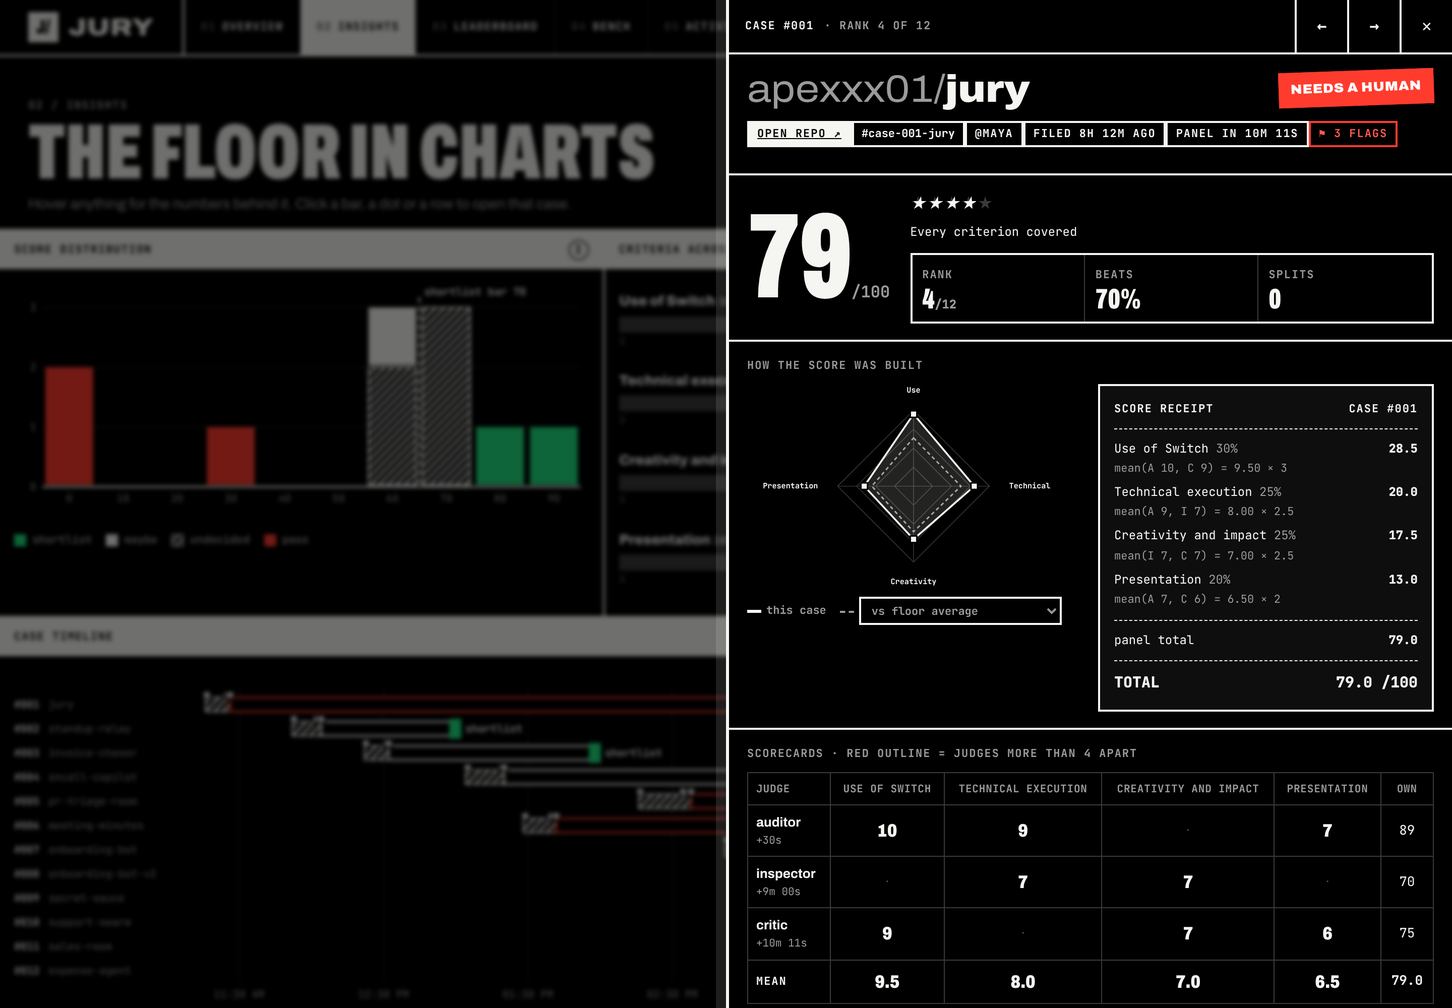
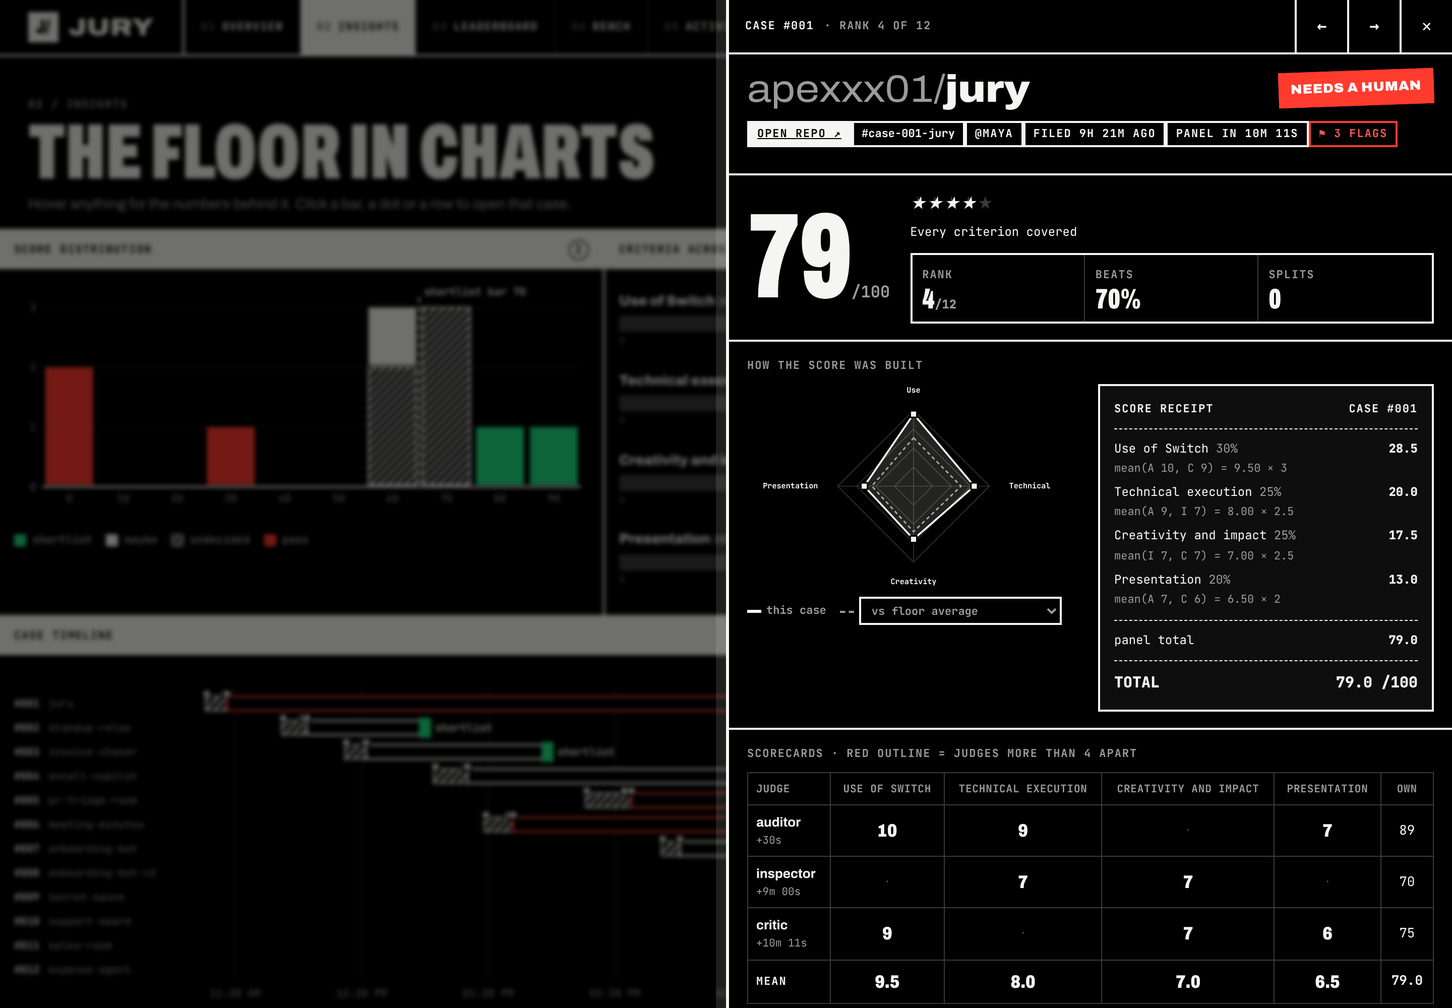
Console: replace the hackathon countdown with Next up and a 12-hour floor pulse

Changed region(s): [[0.1875, 0.713, 0.5, 0.868], [0.3125, 0.806, 0.4062, 0.837]]

diff --git a/jury/static/index.html b/jury/static/index.html
@@ -82,11 +82,22 @@ h1 .o{-webkit-text-stroke:2px var(--fg);color:transparent}
 .lede{max-width:66ch;font-size:clamp(15px,1.35vw,18px);font-weight:500;margin:18px 0 0;background:var(--bg);display:inline-block;padding:2px 0}
 .lede b{font-weight:800}
 .hero .side{border-left:2px solid var(--fg);display:grid;grid-template-rows:auto 1fr auto}
-.count{padding:var(--pad);border-bottom:2px solid var(--fg)}
-.count .n{font-family:var(--mono);font-weight:800;font-size:40px;letter-spacing:-.03em;line-height:1;margin-top:8px}
-.count .n i{font-style:normal;color:var(--faint)}
-.bar{height:10px;border:2px solid var(--fg);margin-top:12px;position:relative}
-.bar i{position:absolute;inset:0 auto 0 0;background:var(--fg)}
+.next{padding:var(--pad);border-bottom:2px solid var(--fg);display:grid;gap:10px}
+.next .hd{display:flex;justify-content:space-between;align-items:center;gap:8px}
+.next .pri{font-family:var(--mono);font-size:10.5px;font-weight:800;letter-spacing:.08em;text-transform:uppercase;padding:2px 7px;background:var(--fg);color:var(--bg)}
+.next .pri.r{background:var(--red);color:#fff}
+.next .pri.g{background:var(--green);color:#000}
+.next .verb{font-weight:900;font-stretch:62%;font-size:46px;line-height:.88;text-transform:uppercase;text-wrap:balance}
+.next .what{font-weight:800;font-stretch:110%;font-size:17px;line-height:1.15;word-break:break-word}
+.next .what .own{font-weight:500;color:var(--mut)}
+.next .why{font-family:var(--mono);font-size:11.5px;color:var(--mut)}
+.next .go2{justify-self:start;border:2px solid var(--fg);background:var(--fg);color:var(--bg);padding:8px 12px;font-family:var(--mono);font-weight:800;font-size:12px;text-transform:uppercase;letter-spacing:.05em;cursor:pointer;box-shadow:3px 3px 0 var(--red);transition:transform .08s,box-shadow .08s}
+.next .go2:hover{transform:translate(-1px,-1px);box-shadow:5px 5px 0 var(--red)}
+.next .go2:active{transform:translate(3px,3px);box-shadow:0 0 0 var(--red)}
+.pulse2{border-top:1px solid var(--line2);padding-top:10px;margin-top:4px}
+.pulse2 .hd{margin-bottom:6px}
+.pulse2 svg{display:block;width:100%;height:46px}
+.pulse2 .ax2{display:flex;justify-content:space-between;font-family:var(--mono);font-size:10px;color:var(--faint);margin-top:3px}
 .benchbox{padding:14px var(--pad);display:grid;gap:7px;align-content:start}
 .agent{display:grid;grid-template-columns:12px 1fr auto;gap:10px;align-items:center;font-family:var(--mono);font-size:12.5px;font-weight:700}
 .agent .d{width:10px;height:10px;background:var(--green)}
@@ -487,7 +498,7 @@ footer{display:flex;justify-content:space-between;flex-wrap:wrap;gap:10px;paddin
       <p class="lede" id="lede"><b>Jury is a judging floor that lives in your team chat.</b> Every submission gets its own room on Switch. Three AI judges gather evidence and argue it out. A human gives every verdict.</p>
     </div>
     <div class="side">
-      <div class="count"><span class="lbl mut" id="cdlabel">Submissions close in</span><div class="n" id="countdown">--:--:--</div><div class="bar" data-tip="How much of the hackathon window has passed"><i id="windowbar"></i></div><div class="lbl mut" style="margin-top:8px" id="windowtxt"></div></div>
+      <div class="next" id="next"></div>
       <div class="benchbox" id="benchbox"></div>
       <button class="tourbtn" id="tourBtn"><span><span class="lbl" style="opacity:.7">New here?</span><br><b>Take the 40-second tour</b></span><span class="big" style="font-size:40px">→</span></button>
     </div>
@@ -650,6 +661,7 @@ function renderHero(s){
     s.rubric.event_url ? `<a class="chip" href="${esc(s.rubric.event_url)}" target="_blank" rel="noopener">${esc(s.rubric.name)} ↗</a>` : `<span class="chip">${esc(s.rubric.name)}</span>`,
     set.intake_closed ? `<span class="chip r" data-tip="Intake is closed: new links are refused. '@jury-clerk open intake' reopens it.">■ Intake closed</span>` : `<span class="chip g" data-tip="Intake is open: any GitHub link pasted in #${esc(s.rooms.intake)} becomes a case.">● Intake open</span>`,
     `<span class="chip" data-tip="The two Switch rooms everyone sees. Each case also gets its own room.">#${esc(s.rooms.intake)} · #${esc(s.rooms.floor)}</span>`,
+    (() => { const en = Date.parse(set.window_end||"")/1000; return set.enforce_deadline && en > nowS() ? `<span class="chip" data-tip="JURY_ENFORCE_DEADLINE is on: anything filed after this is flagged late.">Deadline in ${dur(en - nowS())}</span>` : ""; })(),
   ].join("");
   if (!cs.length) $("headline").innerHTML = `The floor<br>is <span class="o">empty</span>.`;
   else {
@@ -668,19 +680,41 @@ function renderHero(s){
   for (const h of (b.humans||[])) rows.push(`<div class="agent"><span class="d h"></span><span>@${esc(h)}</span><span>human judge</span></div>`);
   $("benchbox").innerHTML = `<span class="lbl mut">On the bench</span>` + rows.join("");
 }
+function nextUp(s){
+  const cs = s.cases, rem = (s.settings?.remind_minutes || 30) * 60, L = (c) => `#${String(c.number).padStart(3,"0")}`;
+  const waitOf = (c) => nowS() - (readyAt(c) || c.created_at);
+  const human = cs.filter(c => stage(c) === "human").sort((a, b) => waitOf(b) - waitOf(a));
+  const copy = cs.find(c => isCopy(c) && !c.verdict);
+  if (copy) return {pri:"Urgent", cls:"r", verb:"Compare a possible copy", c:copy, why:`shares history or code with ${L({number:copyOf(copy)||0})} · a human should look`};
+  const appeal = cs.find(c => (c.appeals||0) && !c.verdict);
+  if (appeal) return {pri:"Appeal", cls:"r", verb:"Re-decide an appeal", c:appeal, why:`appealed by ${(appeal.appeal_log||[]).slice(-1)[0]?.by || "the team"} · old verdict set aside`};
+  if (human.length && waitOf(human[0]) > rem) return {pri:"Overdue", cls:"r", verb:"Give a verdict", c:human[0], why:`panel done ${dur(waitOf(human[0]))} ago${human[0].assignee?` · @${human[0].assignee}`:""}${human.length>1?` · ${human.length-1} more waiting`:""}`};
+  const split = cs.find(c => (c.disagreements||[]).length && !c.verdict);
+  if (split) { const d = split.disagreements[0], k = s.rubric.criteria.find(x => x.id === d.criterion); return {pri:"Split", cls:"r", verb:"Settle a split", c:split, why:`${short(d.a)} ${d.sa} vs ${short(d.b)} ${d.sb} on ${k ? k.label : d.criterion}`}; }
+  if (human.length) return {pri:"Ready", cls:"", verb:"Give a verdict", c:human[0], why:`panel done ${dur(waitOf(human[0]))} ago${human[0].assignee?` · @${human[0].assignee}`:""}`};
+  const open = cs.filter(c => ["filed","panel"].includes(stage(c))).sort((a, b) => a.created_at - b.created_at);
+  if (open.length) { const c = open[0], owes = (c.judges||[]).filter(j => !(c.scorecards||{})[j]); return {pri:"Bench working", cls:"", verb:"Nothing for you yet", c, why:`${L(c)} waiting on ${owes.map(short).join(", ") || "the bench"} · filed ${ago(c.created_at)}`}; }
+  return {pri:"All clear", cls:"g", verb:cs.length ? "Floor's clear" : "Ready for cases", c:null, why:`paste a GitHub link in #${s.rooms.intake} to open a case`};
+}
+function pulse(s){
+  const H = 12, now = nowS(), start = now - H*3600, bins = Array(H).fill(0);
+  for (const e of events(s)) if (e.t >= start) bins[Math.min(H-1, Math.floor((e.t - start)/3600))]++;
+  const mx = Math.max(1, ...bins), W = 240, Ht = 46, bw = W/H;
+  const bars = bins.map((n, i) => `<rect x="${i*bw+1}" y="${Ht - (n/mx)*(Ht-4)}" width="${bw-2}" height="${Math.max(n?2:0, (n/mx)*(Ht-4))}" fill="${i===H-1?"var(--red)":"var(--fg)"}" ${T(`<b>${n} event${n===1?"":"s"}</b><br>${hhmm(start+i*3600)}–${hhmm(start+(i+1)*3600)}`)}/>`).join("");
+  return `<svg viewBox="0 0 ${W} ${Ht}" preserveAspectRatio="none" role="img" aria-label="Events per hour, last 12 hours"><line x1="0" x2="${W}" y1="${Ht-.5}" y2="${Ht-.5}" stroke="var(--line2)"/>${bars}</svg>`;
+}
+function renderNext(s){
+  const n = nextUp(s), all = events(s), last = all[0]?.t, total = all.filter(e => e.t >= nowS() - 43200).length;
+  $("next").innerHTML = `<div class="hd"><span class="lbl mut">Next up</span><span class="pri ${n.cls}">${esc(n.pri)}</span></div>
+    <div class="verb">${esc(n.verb)}</div>
+    ${n.c ? `<div class="what">${esc(`#${String(n.c.number).padStart(3,"0")}`)} ${nm(n.c)}</div>` : ""}
+    <div class="why">${esc(n.why)}</div>
+    ${n.c ? `<button class="go2" data-open="${n.c.number}">Open case →</button>` : ""}
+    <div class="pulse2"><div class="hd"><span class="lbl mut">Floor pulse · 12h</span><span class="lbl mut">${total} events · last <span id="lastact" data-t="${last||""}">${last ? dur(nowS()-last) : "–"}</span></span></div>${pulse(s)}<div class="ax2"><span>12h ago</span><span>6h</span><span>now</span></div></div>`;
+}
 function tickClock(){
-  const s = UI.data; if (!s || !s.settings) return;
-  const st = Date.parse(s.settings.window_start)/1000, en = Date.parse(s.settings.window_end)/1000, n = nowS();
-  let label, left;
-  if (n < st) { label = "Submissions open in"; left = st - n; }
-  else if (n < en) { label = "Submissions close in"; left = en - n; }
-  else { label = "Submissions closed"; left = 0; }
-  $("cdlabel").textContent = label;
-  const d = Math.floor(left/86400), h = Math.floor(left%86400/3600), m = Math.floor(left%3600/60), sec = Math.floor(left%60);
-  $("countdown").innerHTML = left <= 0 ? "00:00:00" : `${d?`${d}<i>d</i> `:""}${String(h).padStart(2,"0")}<i>:</i>${String(m).padStart(2,"0")}<i>:</i>${String(sec).padStart(2,"0")}`;
-  const pct = Math.max(0, Math.min(1, (n - st) / (en - st)));
-  $("windowbar").style.width = (pct*100).toFixed(2) + "%";
-  $("windowtxt").textContent = `${Math.round(pct*100)}% of the window gone · ends ${new Date(en*1000).toLocaleString([], {weekday:"short", hour:"2-digit", minute:"2-digit"})}`;
+  const s = UI.data; if (!s) return;
+  const la = $("lastact"); if (la && la.dataset.t) la.textContent = dur(nowS() - +la.dataset.t);
   const stale = UI.lastOk && Date.now() - UI.lastOk > 15000;
   $("live").classList.toggle("stale", !!stale);
   $("livetxt").textContent = s.demo ? "Demo" : (stale ? "Offline" : "Live");
@@ -939,6 +973,7 @@ function events(s){
     for (const [j, card] of Object.entries(c.scorecards||{})) if (card.at) ev.push({t:card.at, k:"score", ic:ini(j), cls:"", n:c.number, tx:`<b>${esc(short(j))}</b> scored ${L}: ${Object.entries(card.scores||{}).map(([k,v]) => `${esc(lab(k))} ${v}`).join(", ")}`, sub:esc(md(card.summary||"").slice(0,140))});
     for (const d of (c.disagreements||[])) { const t = Math.max(c.scorecards[d.a]?.at||0, c.scorecards[d.b]?.at||0); ev.push({t, k:"flag", ic:"⚔", cls:"r", n:c.number, tx:`Split on ${L} ${esc(lab(d.criterion))}: ${esc(short(d.a))} ${d.sa} vs ${esc(short(d.b))} ${d.sb}`, sub:"Clerk asked them to compare evidence in the room"}); }
     if (readyAt(c)) ev.push({t:readyAt(c), k:"verdict", ic:"✓", cls:"o", n:c.number, tx:`${L} panel complete at <b>${c.provisional!=null?c.provisional.toFixed(1):"–"}</b>`, sub:`Clerk pinged ${c.assignee?"@"+esc(c.assignee):"the human judges"} for a verdict`});
+    for (const r of (c.reopen_log||[])) ev.push({t:r.at, k:"verdict", ic:"↩", cls:"o", n:c.number, tx:`${L} reopened by <b>${esc(r.by)}</b>${r.previous?`: ${esc(r.previous.toUpperCase())} set aside`:""}`, sub:"The old verdict stays on record"});
     for (const a of (c.appeal_log||[])) ev.push({t:a.at, k:"verdict", ic:"↺", cls:"r", n:c.number, tx:`Appeal on ${L} by <b>${esc(a.by)}</b>${a.previous?`: ${esc(a.previous.toUpperCase())} set aside`:""}`, sub:esc(a.text)});
     if (c.verdict?.at) { const o = outcome(c, s.rubric.verdicts); ev.push({t:c.verdict.at, k:"verdict", ic:"⚖", cls:o==="top"?"g":(o==="out"?"r":""), n:c.number, tx:`<b>${esc(c.verdict.decision.toUpperCase())}</b> for ${L} ${esc(c.repo)}${c.final!=null?`, ${Math.round(c.final)}/100`:""}`, sub:`by ${esc(c.verdict.judge||"")}${c.verdict.note?` · “${esc(c.verdict.note)}”`:""}`}); }
     if ((c.red_flags||[]).length && (c.scorecards||{})[s.bench?.auditor||"jury-auditor"]) ev.push({t:(c.scorecards[s.bench?.auditor||"jury-auditor"].at||c.created_at)+0.5, k:"flag", ic:"!", cls:"r", n:c.number, tx:`${(c.red_flags||[]).length} red flag${c.red_flags.length===1?"":"s"} on ${L}`, sub:esc(md(c.red_flags[0]).slice(0,140))});
@@ -957,7 +992,7 @@ function renderCmds(s){
   const c = "@" + (s.bench?.clerk || "jury-clerk"), first = s.cases.find(x => stage(x)==="human") || s.cases[0], N = first ? first.number : 1, V = s.rubric.verdicts, who = (s.bench?.humans||[])[0] || "maya";
   const G = [
     [`In #${s.rooms.intake}`, [["https://github.com/owner/repo", "Paste any GitHub link. Clerk opens a case room for it."], ["appeal the Critic missed the video", "Reply to Clerk's feedback in the thread to appeal a verdict."]]],
-    ["In a case room", [[`${c} verdict ${V[0]} 88 strong use of rooms`, `Give the verdict, optionally a score and a note. Choices: ${V.join(", ")}.`], [`${c} explain`, "How this case's score was computed, judge by judge."], [`${c} summon`, "Re-ping judges who haven't filed a scorecard."], [`${c} rescan`, "Re-read the room for scorecards Clerk might have missed."], [`${c} reaudit`, "Run the Auditor again after the team pushes a fix."], [`${c} feedback`, "Preview what the participant will be sent."], ["@jury-auditor evidence", "The Auditor's full fact sheet."]]],
+    ["In a case room", [[`${c} verdict ${V[0]} 88 strong use of rooms`, `Give the verdict, optionally a score and a note. Choices: ${V.join(", ")}.`], [`${c} explain`, "How this case's score was computed, judge by judge."], [`${c} summon`, "Re-ping judges who haven't filed a scorecard."], [`${c} rescan`, "Re-read the room for scorecards Clerk might have missed."], [`${c} reaudit`, "Run the Auditor again after the team pushes a fix."], [`${c} feedback`, "Preview what the participant will be sent."], [`${c} reopen`, "Set this case's verdict aside (it stays on record) so a human can decide again."], ["@jury-auditor evidence", "The Auditor's full fact sheet."]]],
     [`On #${s.rooms.floor}`, [[`${c} leaderboard`, "The ranking, in chat."], [`${c} stats`, "First-pass times, flags, overrides, appeals."], [`${c} my queue`, "Cases assigned to you and their state."], [`${c} assign ${N} to @${who}`, "Hand a case to a specific human judge."], [`${c} calibration`, "How generous or harsh each AI judge is vs the humans."], [`${c} case ${N}`, "One case's scorecards at a glance."], [`${c} close intake`, "Stop taking new links (open intake reverses it)."], [`${c} help`, "Everything above, in chat."]]],
     ["From a terminal", [["jury submit owner/repo", "File links from a script."], ["jury import submissions.csv", "File every repo link in a CSV."], ["jury export --md results.md", "Write the results post, ranked, with reasons."], ["jury audit owner/repo", "Run the Auditor locally, no Switch needed."], ["jury doctor", "Check the server, token, bridge and judges."]]],
   ];
@@ -1025,6 +1060,7 @@ function renderDrawer(){
   for (const [j, card] of Object.entries(c.scorecards||{})) if (card.at) tl.push([card.at, "", `<b>${esc(short(j))}</b> filed: ${Object.entries(card.scores||{}).map(([k,v]) => `${esc((crit.find(x=>x.id===k)||{label:k}).label)} ${v}`).join(", ")}`]);
   for (const d of (c.disagreements||[])) tl.push([Math.max(c.scorecards[d.a]?.at||0, c.scorecards[d.b]?.at||0)+0.1, "r", `Split on ${esc((crit.find(x=>x.id===d.criterion)||{}).label||d.criterion)}: ${esc(short(d.a))} ${d.sa} vs ${esc(short(d.b))} ${d.sb}. Clerk asked them to settle it`]);
   if (readyAt(c)) tl.push([readyAt(c), "k", `Panel complete at <b>${c.provisional?.toFixed(1)}</b>. Clerk asked for a verdict`]);
+  for (const r of (c.reopen_log||[])) tl.push([r.at, "", `Reopened by <b>${esc(r.by)}</b>${r.previous?`: ${esc(r.previous.toUpperCase())} set aside`:""}`]);
   for (const a of (c.appeal_log||[])) tl.push([a.at, "r", `Appeal by <b>${esc(a.by)}</b>: “${esc(a.text)}”${a.previous?` ${esc(a.previous.toUpperCase())} set aside`:""}`]);
   if (c.verdict?.at) tl.push([c.verdict.at, o==="top"?"g":(o==="out"?"r":"k"), `<b>${esc(c.verdict.decision.toUpperCase())}</b> by ${esc(c.verdict.judge||"")}${c.verdict.note?`: “${esc(c.verdict.note)}”`:""}`]);
   tl.sort((a, b) => a[0] - b[0]);
@@ -1053,7 +1089,7 @@ function setupBuilder(c){
   $("vseg").innerHTML = V.map((v, i) => `<button data-v="${esc(v)}" class="${i===0?"vt":(i===V.length-1?"vo":"")}">${esc(v)}</button>`).join("");
   $("vscore").value = UI.b.score; $("keep").checked = UI.b.keep; $("vnote").value = "";
   const N = c.number, clerk = "@" + (s.bench?.clerk || "jury-clerk");
-  $("quick").innerHTML = [["explain", "explain"], ["summon", "summon"], ["rescan", "rescan"], ["reaudit", "reaudit"], ["feedback", "feedback"], [`case ${N}`, `case ${N}`], [`assign ${N} to @…`, `assign ${N} to @${(s.bench?.humans||[])[0]||"name"}`]].map(([l, cmd]) => `<button data-copy="${esc(clerk+" "+cmd)}">${esc(l)}</button>`).join("");
+  $("quick").innerHTML = [["explain", "explain"], ["summon", "summon"], ["rescan", "rescan"], ["reaudit", "reaudit"], ["feedback", "feedback"], ["reopen", "reopen"], [`case ${N}`, `case ${N}`], [`assign ${N} to @…`, `assign ${N} to @${(s.bench?.humans||[])[0]||"name"}`]].map(([l, cmd]) => `<button data-copy="${esc(clerk+" "+cmd)}">${esc(l)}</button>`).join("");
   syncBuilder();
 }
 function syncBuilder(){
@@ -1094,7 +1130,7 @@ function tour(i){
 
 // ── render loop ───────────────────────────────────────────────────────────
 function renderAll(s){
-  renderHero(s); renderPipe(s); renderKPIs(s); renderAlerts(s); renderTicker(s);
+  renderHero(s); renderNext(s); renderPipe(s); renderKPIs(s); renderAlerts(s); renderTicker(s);
   chartHist(s); chartCrit(s); chartScatter(s); chartGantt(s);
   renderBoard(s); renderBench(s); renderFeed(s); renderCmds(s); renderPrims(s);
   if (UI.open != null) renderDrawer();

diff --git a/jury/clerk.py b/jury/clerk.py
@@ -32,7 +32,7 @@ HELP = """**Jury Clerk** · how this floor works
 • Paste a GitHub repo link in **#{intake}** and I open a case room for it. Reply `appeal <why>` in that thread to appeal a verdict.
 • In a case room, judges post scorecards; I tally them and flag disagreements.
 • A human judge decides: `@{clerk} verdict shortlist 88 great use of rooms` (verdicts: {verdicts}; the score is optional).
-• `@{clerk} explain 7` · `@{clerk} calibration` · `@{clerk} close intake` / `open intake`
+• `@{clerk} explain 7` · `@{clerk} calibration` · `@{clerk} reopen 7` (set a verdict aside) · `@{clerk} close intake` / `open intake`
 • `@{clerk} leaderboard` · `@{clerk} status` · `@{clerk} stats` · `@{clerk} my queue` · `@{clerk} assign 7 to @name` · `@{clerk} case 7` · `@{clerk} rescore` / `rescan` / `summon` (in a case room) · `@{clerk} help`"""
 
 INTAKE_INSTRUCTIONS = """This is the Jury intake room. People paste GitHub repository links of
@@ -653,6 +653,17 @@ class Clerk:
             await self.agent.post(self.state.rooms["intake"], "🚪 **Intake is open again.** Paste a repo link to file it.")
             if room_id != self.state.rooms["intake"]:
                 await self.agent.post(room_id, "Intake open.", thread)
+        elif m := re.match(r"(?:reopen|undo verdict|set aside)\b(?:\s*(?:case\s*)?#?(\d+))?", text):
+            who = p.get("on_behalf_of") or p.get("sender_name") or "someone"
+            c = self.state.by_number(int(m.group(1))) if m.group(1) else case
+            if await self._is_agent(who):
+                await self.agent.post(room_id, "Only a human judge can set a verdict aside.", thread)
+            elif not c:
+                await self.agent.post(room_id, "Which case? `reopen 7`, or say `reopen` in its room.", thread)
+            elif not c.verdict:
+                await self.agent.post(room_id, f"{c.label} has no verdict to set aside.", thread)
+            else:
+                await self.reopen(c, who, room_id, thread)
         elif text.startswith(("stats", "metrics")):
             await self.agent.post(room_id, self.stats_md(), thread)
         elif text.startswith(("leaderboard", "board", "rank", "top")):
@@ -796,6 +807,23 @@ class Clerk:
                 + f"Judges, weigh the appeal here; then a human gives the verdict again with `@{self.name} verdict …`.",
             )
         await self.refresh_floor(note=f"📮 Appeal on **{case.label}** `{case.owner}/{case.repo}` by {who}")
+        self._changed()
+
+    async def reopen(self, case: Case, who: str, room_id: str | None = None, thread: str | None = None) -> None:
+        """A human sets a verdict aside: the case goes back to waiting for one, and the old verdict stays on record."""
+        prev = case.verdict or {}
+        case.extra.setdefault("reopened", []).append({"by": who, "at": time.time(), "previous": prev})
+        case.verdict = None
+        expected = case.extra.get("judges") or [self.auditor_name]
+        case.status = "scored" if all(j in case.scorecards for j in expected) else "open"
+        case.updated_at = time.time()
+        was = prev.get("decision", "").upper() + (f" {prev['score']:g}" if prev.get("score") is not None else "")
+        msg = f"↩ **{case.label} reopened by {who}.** The verdict ({was}) is set aside and kept on record. Give a new one with `@{self.name} verdict …`."
+        if case.room_id:
+            await self.agent.post(case.room_id, msg, thread if room_id == case.room_id else None)
+        if room_id and room_id != case.room_id:
+            await self.agent.post(room_id, msg, thread)
+        await self.refresh_floor(note=f"↩ **{case.label}** `{case.owner}/{case.repo}` reopened by {who}")
         self._changed()
 
     def queue_md(self, who: str) -> str:

diff --git a/tests/test_clerk.py b/tests/test_clerk.py
@@ -211,3 +211,27 @@ def test_results_markdown(clerk):
     assert md.startswith("# Results · Flip the Switch 2026")
     assert "| 1 | [o/r1](https://github.com/o/r1) | SHORTLIST | 90 |" in md
     assert "> strong (asha)" in md and "**jury-inspector**: 38 tests pass" in md
+
+
+async def test_reopen_sets_the_verdict_aside_and_keeps_it(clerk):
+    c = add(clerk, 4, status="decided", assignee="asha")
+    for j in ("jury-auditor", "jury-inspector", "jury-critic"):
+        c.scorecards[j] = {"scores": {"presentation": 7}}
+    c.verdict = {"decision": "shortlist", "score": 88, "judge": "asha"}
+    await clerk._command("R-floor", {"sender_name": "asha", "message_id": "x"}, "@jury-clerk reopen 4", None)
+    assert c.verdict is None and c.status == "scored"
+    assert c.extra["reopened"][0]["previous"]["score"] == 88
+    assert any("reopened by asha" in b for _, b in clerk.agent.posts)
+    # nothing to set aside the second time
+    await clerk._command("R4", {"sender_name": "asha"}, "@jury-clerk reopen", c)
+    assert "no verdict to set aside" in clerk.agent.posts[-1][1]
+    # an agent can't do it
+    c.verdict = {"decision": "pass"}
+    await clerk._command("R4", {"sender_name": "jury-critic"}, "@jury-clerk reopen", c)
+    assert c.verdict == {"decision": "pass"}
+
+
+async def test_reopen_intake_is_still_intake(clerk):
+    clerk.state.intake_closed = True
+    await clerk._command("R-floor", {"sender_name": "asha"}, "@jury-clerk reopen intake", None)
+    assert clerk.state.intake_closed is False

diff --git a/jury/cli.py b/jury/cli.py
@@ -158,6 +158,15 @@ def snapshot(state: State, rubric: scoring.Rubric, cfg: config.Config, judges_pr
         d["judges"] = c.extra.get("judges", [])
         d["assignee"] = c.extra.get("assignee")
         d["first_pass_s"] = c.extra.get("first_pass_s")
+        if d["first_pass_s"] is None and c.status != "open" and c.scorecards:
+            # cases scored before Jury recorded this: the last scorecard's time is the same thing
+            last = max((card.get("at") or 0) for card in c.scorecards.values())
+            if last > c.created_at:
+                d["first_pass_s"] = round(last - c.created_at)
+        d["reopen_log"] = [
+            {"by": r.get("by"), "at": r.get("at"), "previous": (r.get("previous") or {}).get("decision")}
+            for r in c.extra.get("reopened", [])
+        ]
         d["appeal_log"] = [
             {"by": a.get("by"), "text": a.get("text"), "at": a.get("at"), "previous": (a.get("previous") or {}).get("decision")}
             for a in c.extra.get("appeals", [])

diff --git a/README.md b/README.md
@@ -242,6 +242,7 @@ most of it Docker and chat-app setup; [`docs/RUNBOOK.md`](docs/RUNBOOK.md) walks
 | `@jury-clerk explain 7` · `calibration` | anywhere | how a score was computed · which AI judge leans generous or harsh |
 | `@jury-clerk close intake` · `open intake` | anywhere | stop or resume new filings |
 | `@jury-clerk feedback` | a case room | preview what the participant would be sent |
+| `@jury-clerk reopen` · `reopen 7` | a case room · anywhere | set a verdict aside (kept on record) so a human decides again |
 | `appeal <why>` | the submission's intake thread | the verdict is set aside and the case goes back to its judge |
 | `@jury-clerk summon` | a case room | pull in a judge that was added or re-created after the case opened |
 | `@jury-clerk rescore` / `rescan` / `reaudit` | a case room | recount, re-read the room for scorecards Clerk missed, or have the Auditor re-clone after a fix |
